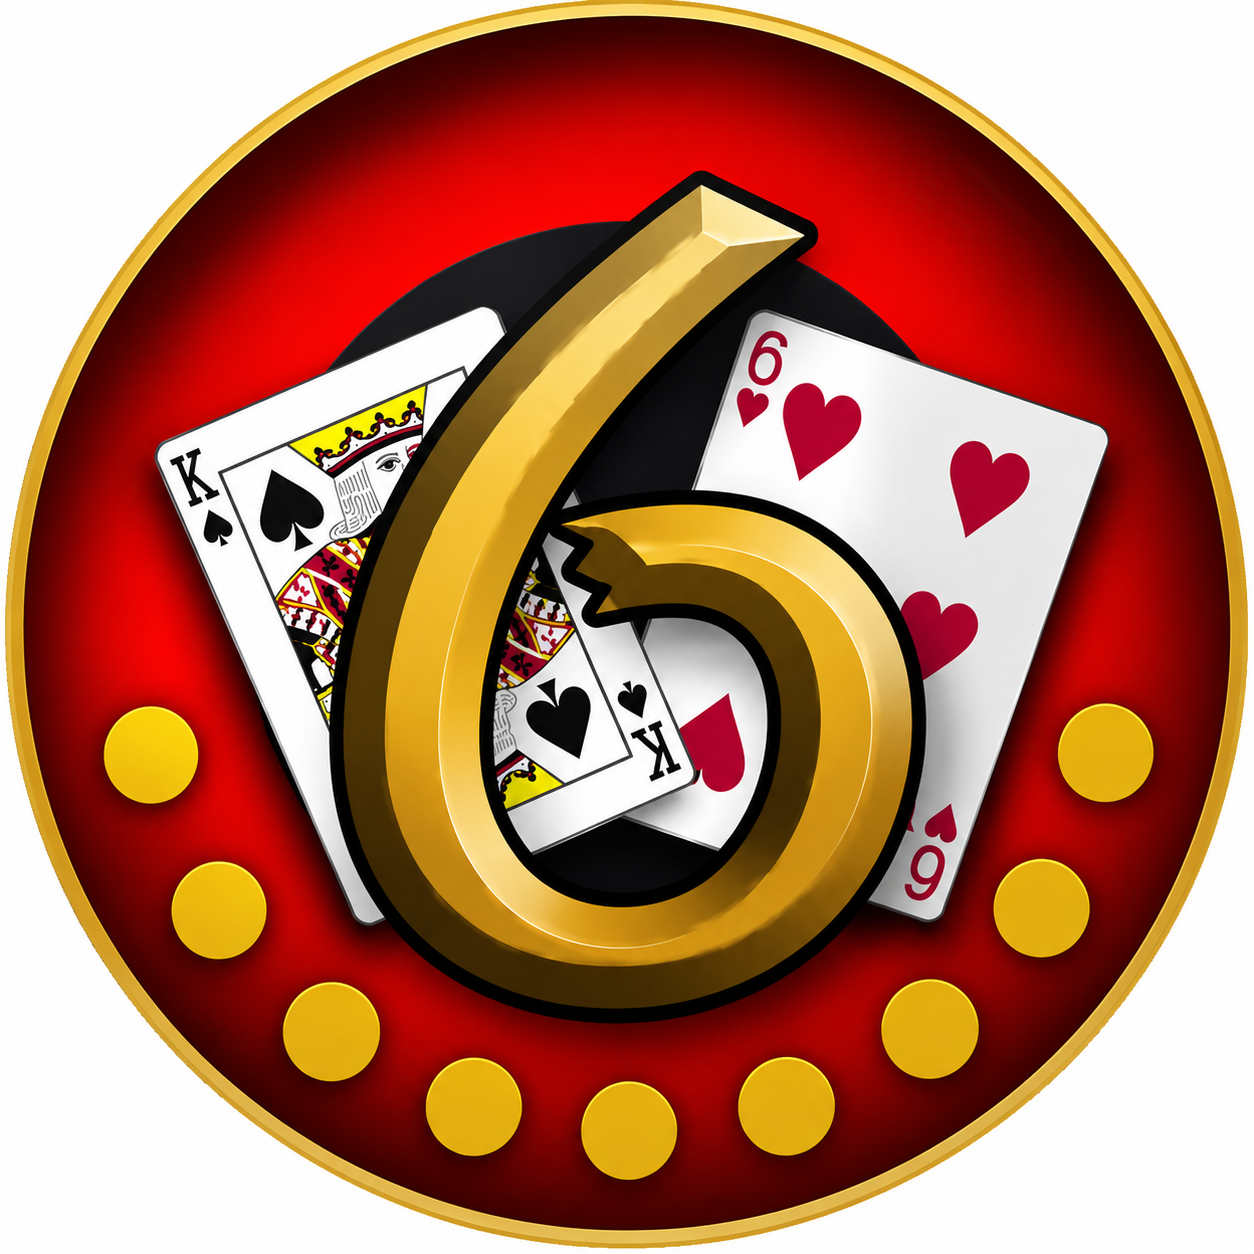
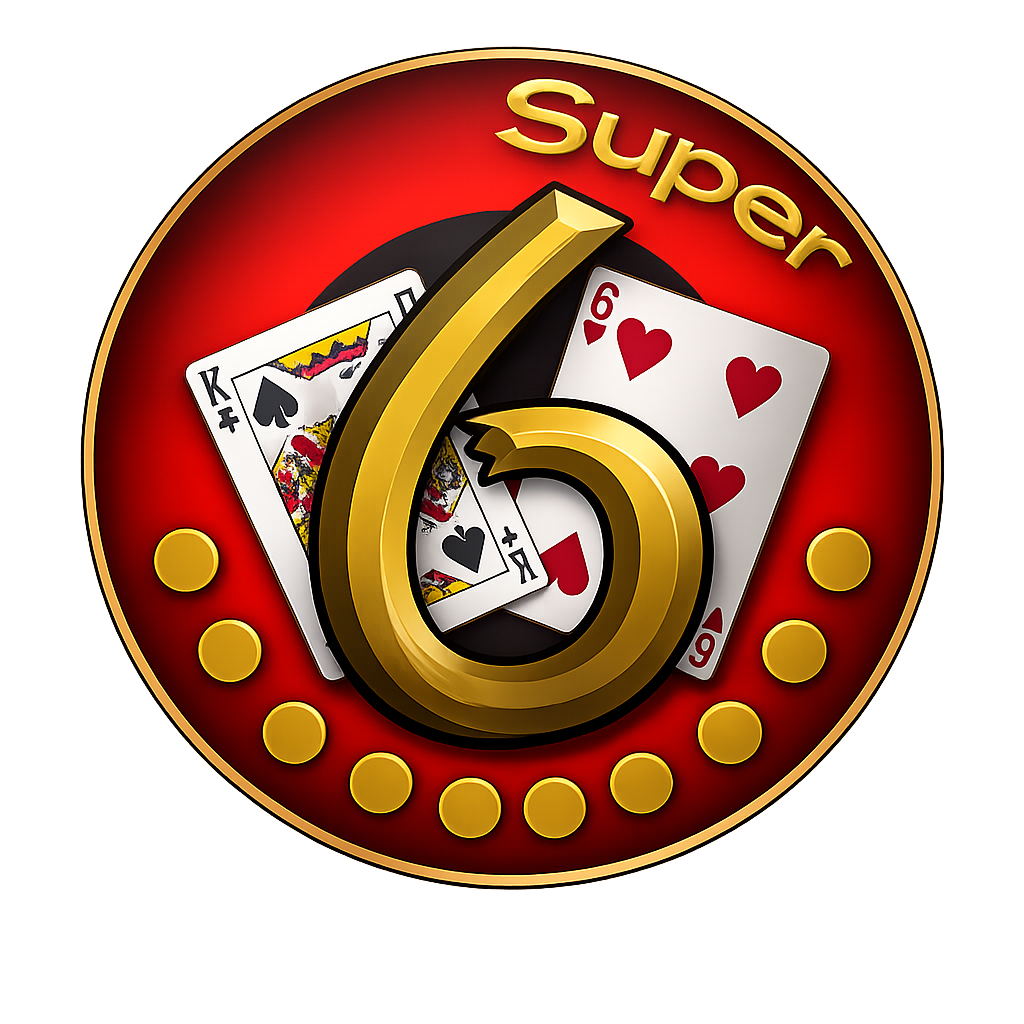
design conversion of baccarat

diff --git a/src/App.tsx b/src/App.tsx
@@ -6,6 +6,7 @@ import bankerLogo from "./assets/banker.png";
 import playerpairlogo from "./assets/playerpair.png"
 import bankerpairlogo from "./assets/bankerpair.png"
 import super6logo from "./assets/super6.png"
+import baccaratlogo from "./assets/baccarat.png"
 
 const KEYWORD = "88Enter";
 
@@ -85,7 +86,7 @@ export default function App() {
           if (savedBeads) setBeads(JSON.parse(savedBeads))
           const savedShoe = localStorage.getItem("baccarat_shoe")
           if (savedShoe) setShoeNumber(Number(savedShoe))
-        } catch {}
+        } catch { }
         bufferRef.current = "";
       }
 
@@ -135,8 +136,6 @@ export default function App() {
       <div className="opacity-95">{text}</div>
     </div>
   )
-
-  const [isHeaderEditing, setIsHeaderEditing] = useState(false)
 
   // Add these two useEffects (after the existing ones):
   type Bead = "banker" | "player" | "tie" | "bankerPair" | "playerPair" | "super6"
@@ -192,7 +191,7 @@ export default function App() {
         )
       case "bankerPair":
         return (
-           <div
+          <div
             className="grid place-items-center rounded-full bg-[#1f7a44] shadow-[inset_0_0_0_3px_rgba(255,255,255,0.8)] overflow-hidden"
             style={{ width: size, height: size }}
           >
@@ -201,7 +200,7 @@ export default function App() {
         )
       case "playerPair":
         return (
-           <div
+          <div
             className="grid place-items-center rounded-full bg-[#1f7a44] shadow-[inset_0_0_0_3px_rgba(255,255,255,0.8)] overflow-hidden"
             style={{ width: size, height: size }}
           >
@@ -276,25 +275,12 @@ export default function App() {
 
 
   useEffect(() => {
-    let last8At = 0
     const onKeyDown = (e: KeyboardEvent) => {
       const target = e.target as HTMLElement | null
       const tag = target?.tagName?.toLowerCase()
       const isTypingSurface =
         tag === "input" || tag === "textarea" || tag === "select" || target?.isContentEditable
-      if (isTypingSurface) return
-
-      if (e.key === "8") {
-        const now = Date.now()
-        if (now - last8At <= 700) {
-          setIsHeaderEditing((v) => !v)
-          last8At = 0
-          return
-        }
-        last8At = now
-      }
-
-      if (isHeaderEditing) return
+      if (isTypingSurface || open) return
 
       // If a pending bead modal is open, handle Enter/Escape
       if (pendingBead !== null) {
@@ -319,7 +305,7 @@ export default function App() {
 
     window.addEventListener("keydown", onKeyDown)
     return () => window.removeEventListener("keydown", onKeyDown)
-  }, [isHeaderEditing, pendingBead])
+  }, [open, pendingBead])
 
   const RoadBeads = ({ cell }: { cell: number }) => {
     const pad = Math.max(6, Math.floor(cell * 0.18))
@@ -329,8 +315,9 @@ export default function App() {
         <div
           className="grid h-full w-full content-start justify-start gap-0"
           style={{
-            gridTemplateColumns: `repeat(auto-fit, ${cell}px)`,
-            gridAutoRows: `${cell}px`,
+            gridTemplateRows: `repeat(auto-fill, ${cell}px)`,
+            gridAutoColumns: `${cell}px`,
+            gridAutoFlow: "column",
           }}
         >
           {beads.map((b, i) => (
@@ -356,7 +343,7 @@ export default function App() {
       case "tie": return { label: "TIE", logo: tieLogo, bg: "#1f7a44", key: "3" }
       case "bankerPair": return { label: "BANKER PAIR", logo: bankerpairlogo, key: "4" }
       case "playerPair": return { label: "PLAYER PAIR", logo: playerpairlogo, key: "5" }
-      case "super6": return { label: "SUPER 6", logo: super6logo, bg: "#f7e7b4", key: "6" }
+      case "super6": return { label: "SUPER 6", logo: super6logo, bg: "#b90b0b", key: "6" }
     }
   }
 
@@ -379,12 +366,10 @@ export default function App() {
                 className="absolute -top-px -left-px -right-px -bottom-px rounded-[20px] pointer-events-none"
               />
               <div
-                className="grid place-items-center rounded-full shadow-[0_4px_30px_rgba(0,0,0,0.5)] overflow-hidden"
+                className="grid place-items-center  overflow-hidden"
                 style={{
                   width: 210,
                   height: 210,
-                  background: info.bg,
-                  boxShadow: `inset 0 0 0 6px rgba(255,255,255,0.35), 0 6px 30px ${info.bg}99`,
                 }}
               >
                 {info.logo && <img src={info.logo} alt={info.label} className="w-full h-full object-cover" />}
@@ -543,14 +528,13 @@ export default function App() {
                               <div className="mt-1 grid grid-cols-[auto_1fr_auto] items-center gap-2">
                                 <div className="h-6 w-6 rounded-full bg-[#f7e7b4] shadow-[inset_0_0_0_1px_rgba(0,0,0,0.18)]" >
                                   <img src={playerpairlogo} alt="banker pair" className="w-full h-full object-cover" />
-                                </div>                                <div>PLAYER PAIR</div>
+                                </div>
+                                <div>PLAYER PAIR</div>
                                 <div className="text-right">{playerPairCount}</div>
                               </div>
 
                               <div className="mt-1 grid grid-cols-[auto_1fr_auto] items-center gap-2">
-                                <div className="h-6 w-6 rounded-md bg-[#f7e7b4] shadow-[inset_0_0_0_1px_rgba(0,0,0,0.18)]" >
-                                  <img src={super6logo} alt="banker pair" className="w-full h-full object-cover" />
-                                </div>
+                                <img src={super6logo} alt="banker pair" className="object-cover w-[30px] h-[30px]" />
                                 <div>SUPER6</div>
                                 <div className="text-right">{super6Count}</div>
                               </div>
@@ -595,7 +579,7 @@ export default function App() {
                         <div className="grid h-full place-items-center">
 
                           <div className="text-center">
-                            <div className="text-[44px] font-black tracking-widest text-[#ffd25c] drop-shadow-[0_2px_0_rgba(0,0,0,0.35)]">
+                            {/* <div className="text-[44px] font-black tracking-widest text-[#ffd25c] drop-shadow-[0_2px_0_rgba(0,0,0,0.35)]">
                               AMYLQ
                             </div>
 
@@ -605,7 +589,8 @@ export default function App() {
 
                             <div className="mt-1 text-[18px] font-bold tracking-[0.18em] text-[#ffe7a8]/90">
                               GONG PING GONG ZHENG
-                            </div>
+                            </div> */}
+                            <img src={baccaratlogo} width={300} height={300} />
                           </div>
                         </div>
                       </div>
